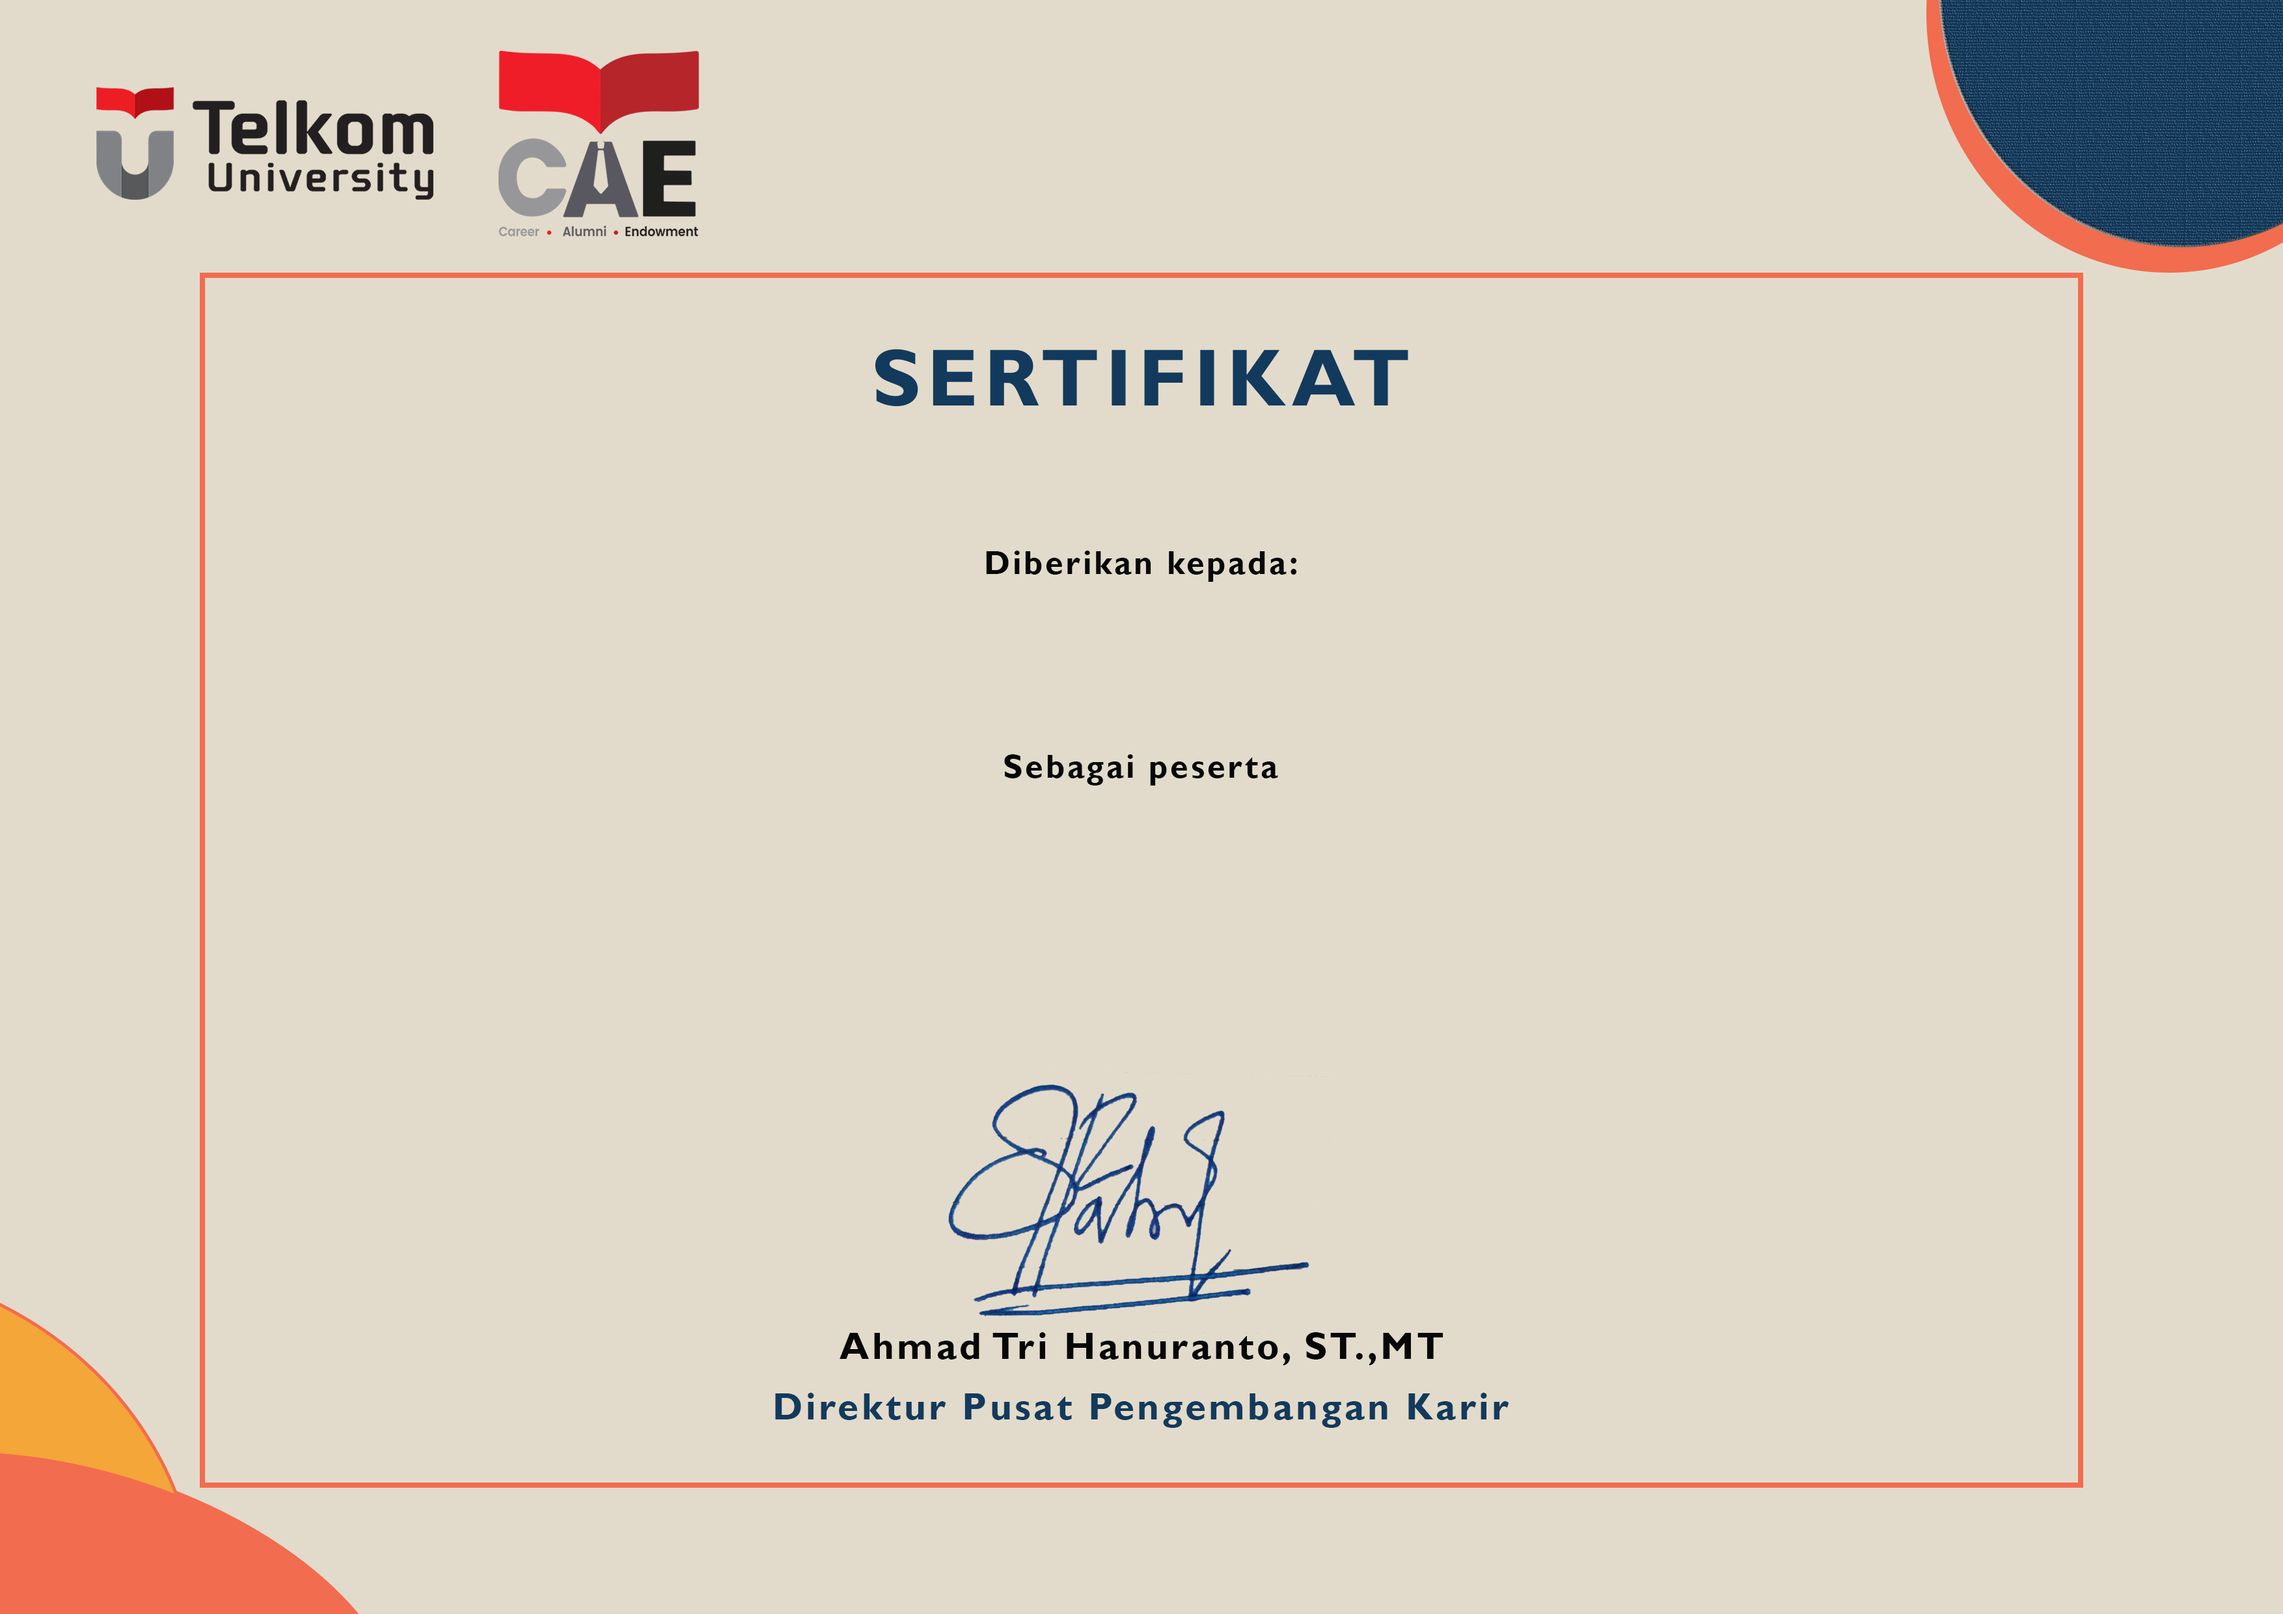
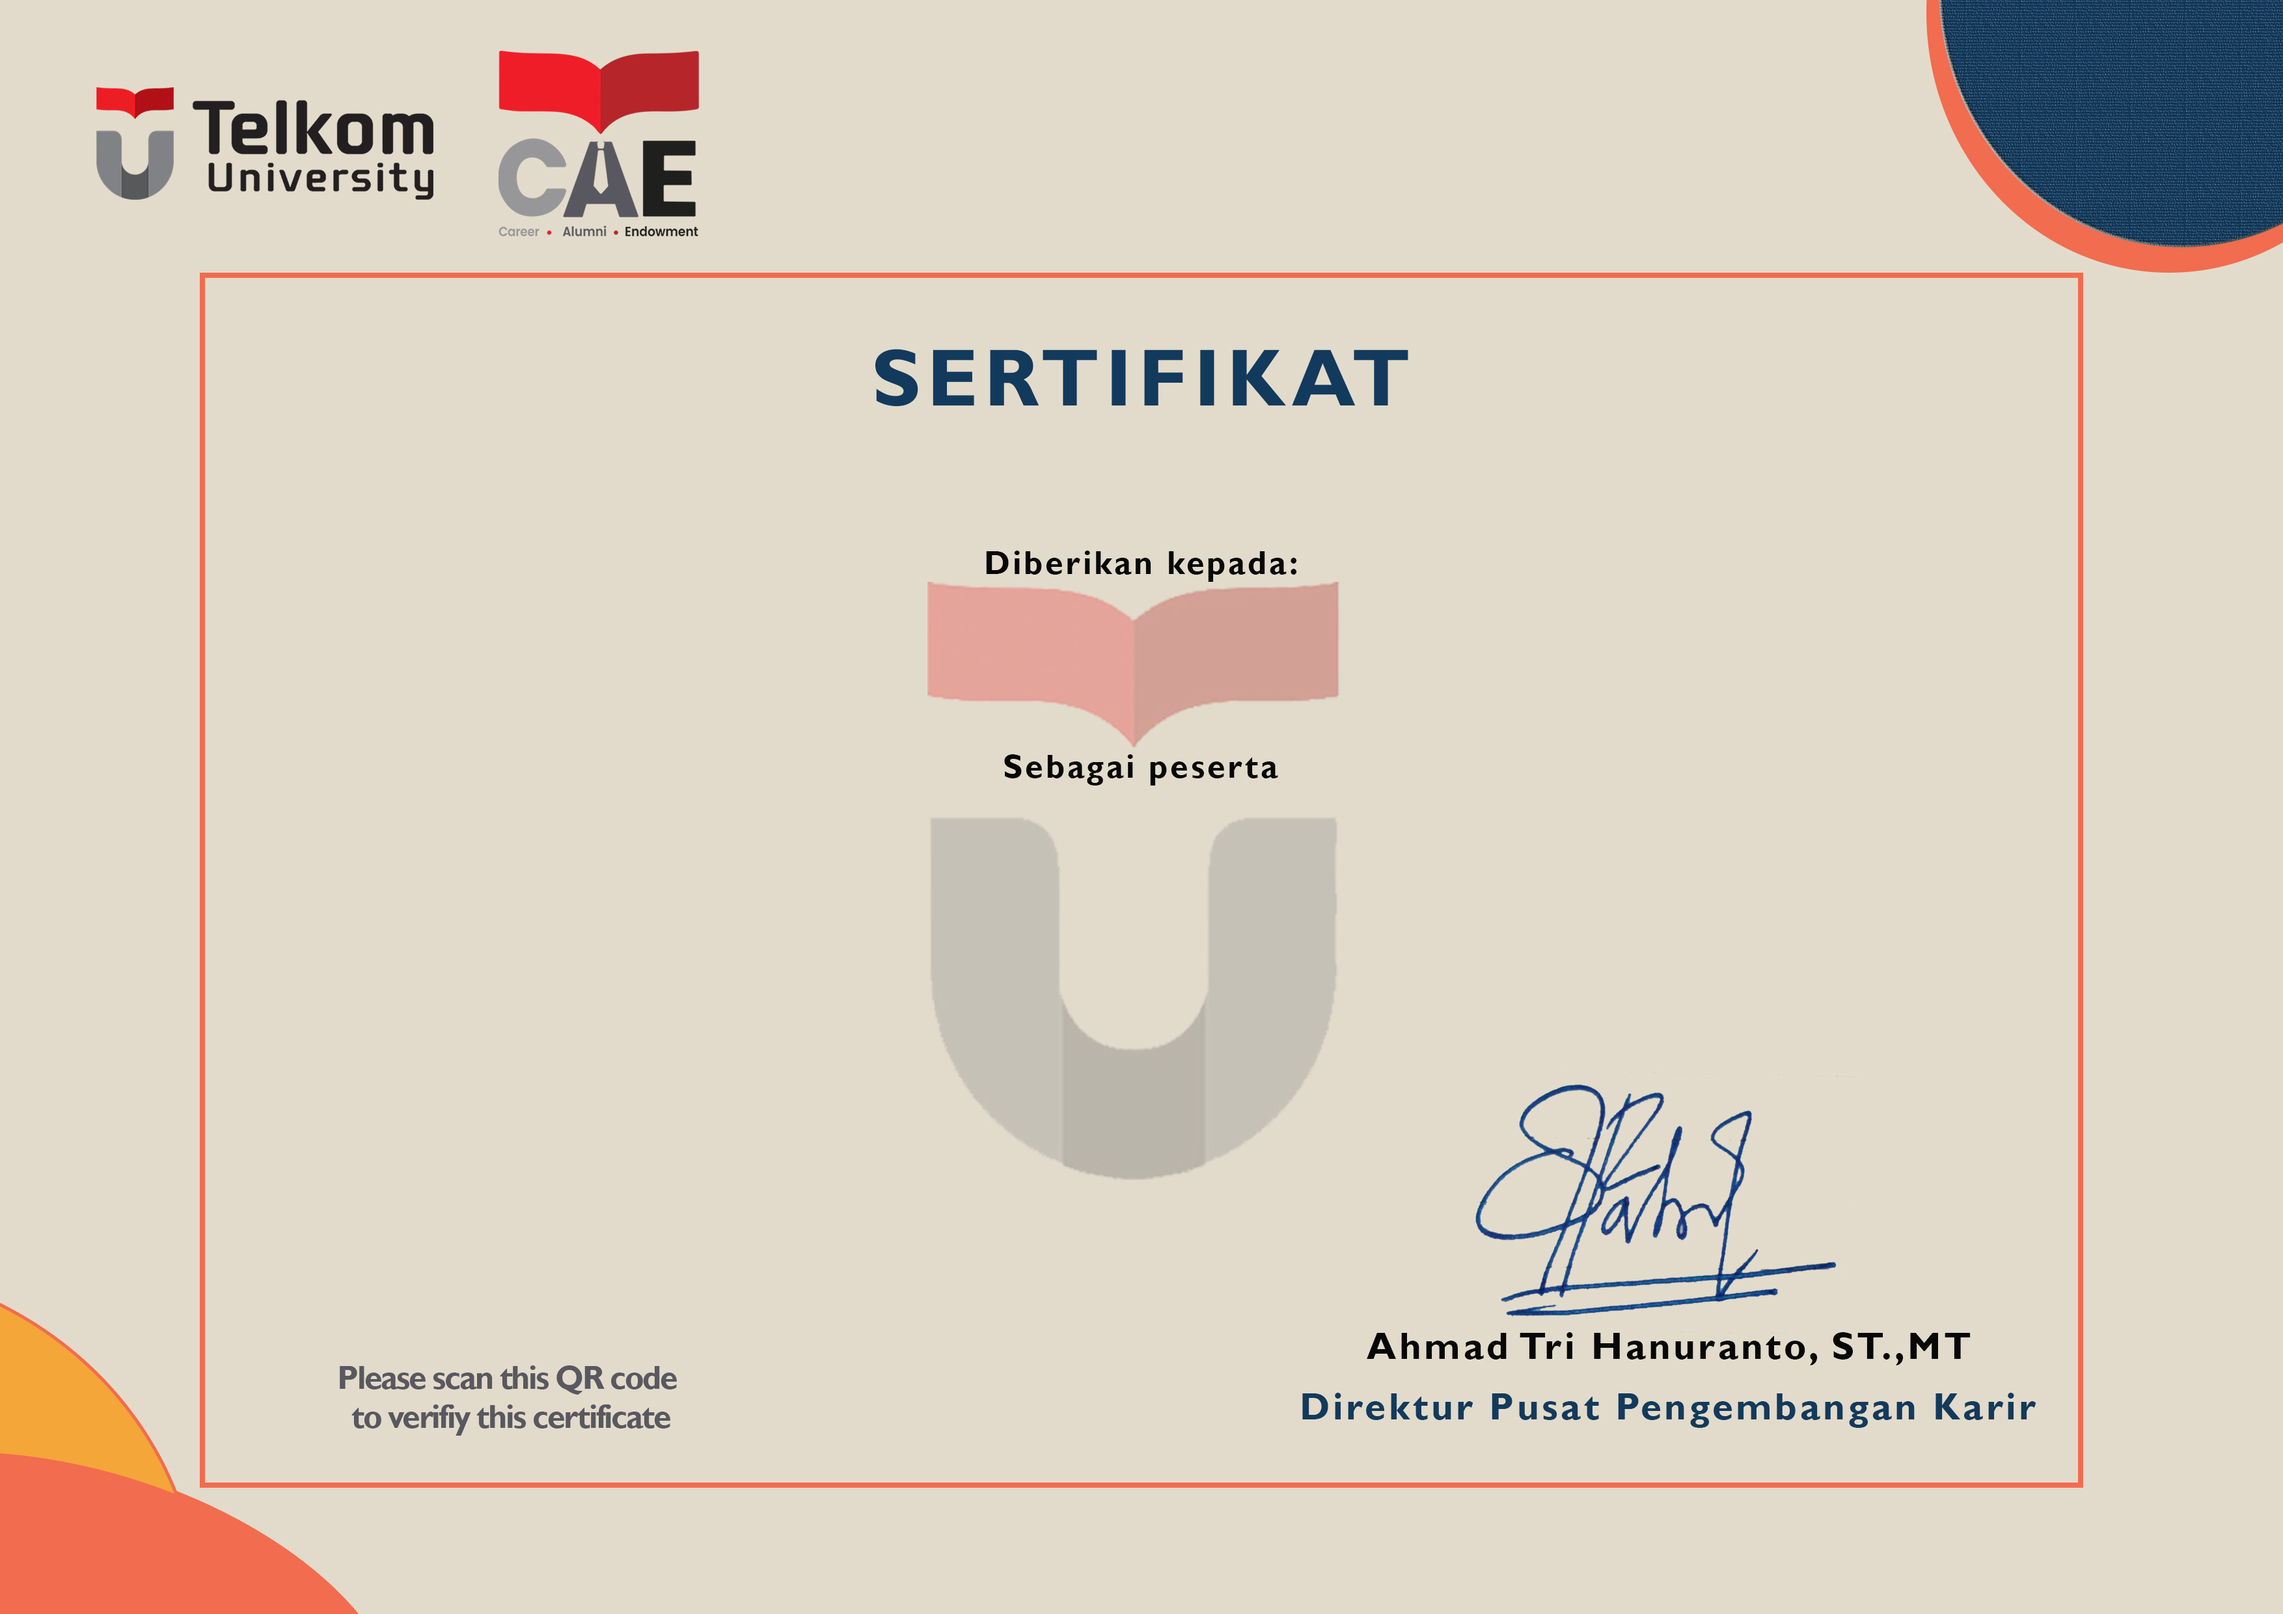
Add Seeder, Fixing Certificate PDF and QR Code, Changing gitignore storage

diff --git a/database/seeders/DatabaseSeeder.php b/database/seeders/DatabaseSeeder.php
@@ -8,6 +8,8 @@ use App\Models\Education;
 use App\Models\Seminar;
 use App\Models\Project;
 use App\Models\Organization;
+use App\Models\DesignCertificate;
+use App\Models\Certificate;
 
 class DatabaseSeeder extends Seeder
 {
@@ -18,6 +20,7 @@ class DatabaseSeeder extends Seeder
      */
     public function run()
     {
+        // CV Data
         // Biodata seed
         Biodata::create([
             'fullname' => 'Muhamad Farell Ambiar',
@@ -36,7 +39,7 @@ class DatabaseSeeder extends Seeder
             'major' => 'Computer Science',
             'degree' => 'Bachelor',
             'start_date' => '2018-08-01',
-            'end_date' => '2022-04-01',
+            'end_date' => '2019-04-01',
             'gpa' => '3.5'
         ]);
         Education::create([
@@ -67,8 +70,22 @@ class DatabaseSeeder extends Seeder
             'project_name' => 'Simulasi Penyebaran Virus (Random Walk 2 Dimensi dengan 4 Arah)',
             'role' => 'Back-end programmer',
             'description' => 'Aplikasi untuk membuat simulasi visual dalam rangka tracking penyebaran virus Covid-19',
+            'start_date' => '2018-10-11',
+            'end_date' => '2019-03-02'
+        ]);
+        Project::create([
+            'project_name' => 'Website UMKM Kuker Hut Bakery',
+            'role' => 'Project Leader',
+            'description' => 'Lorem ipsum dolor sit amet, consectetur adipiscing elit. Quisque porttitor, quam sed tristique finibus, turpis leo laoreet nulla, eu laoreet magna nisi non diam. Morbi commodo egestas dignissim. Nulla augue ante, mollis sit amet consectetur non, faucibus et odio. Nullam eu dapibus quam, vitae porttitor lectus.',
             'start_date' => '2020-10-11',
             'end_date' => '2021-03-02'
+        ]);
+        Project::create([
+            'project_name' => 'Pembangunan Aplikasi PeduliLindingi',
+            'role' => 'Fullstack Developer',
+            'description' => 'Lorem ipsum dolor sit amet, consectetur adipiscing elit. Quisque porttitor, quam sed tristique finibus, turpis leo laoreet nulla, eu laoreet magna nisi non diam. Morbi commodo egestas dignissim. Nulla augue ante, mollis sit amet consectetur non, faucibus et odio. Nullam eu dapibus quam, vitae porttitor lectus.',
+            'start_date' => '2021-05-11',
+            'end_date' => '2021-06-02'
         ]);
 
         // Organizations seed
@@ -78,5 +95,103 @@ class DatabaseSeeder extends Seeder
             'start_date' => '2021-02-11',
             'end_date' => '2021-04-11'
         ]);
+        Organization::create([
+            'organization_name' => 'Big Data Laboratory of Telkom University',
+            'role' => 'Study Group Member',
+            'start_date' => '2019-02-11',
+            'end_date' => '2020-04-11'
+        ]);
+        Organization::create([
+            'organization_name' => 'Forum Betawi Rempug',
+            'role' => 'Treasurer',
+            'start_date' => '2021-06-11',
+            'end_date' => '2021-10-11'
+        ]);
+        // End of CV Data
+
+        //Certificate Data
+        // design_certificate seed
+        DesignCertificate::create([
+            'no_template' => '1',
+            'template_name' => 'Template 01',
+            'filename' => 'Auto-Certificate-Template-01-for-web.jpg',
+            'filesize' => '1286654'
+        ]);
+        DesignCertificate::create([
+            'no_template' => '2',
+            'template_name' => 'Template 02',
+            'filename' => 'Auto-Certificate-Template-02-for-web.jpg',
+            'filesize' => '1186009'
+        ]);
+        DesignCertificate::create([
+            'no_template' => '3',
+            'template_name' => 'Template 03',
+            'filename' => 'Auto-Certificate-Template-03-for-web.jpg',
+            'filesize' => '1063568'
+        ]);
+
+        //Certificate seed
+        Certificate::create([
+            'nomor' => '00001/seminar/09/2021',
+            'nama' => 'Muhamad Farell Ambiar',
+            'nim' => '1301184262',
+            'tipe' => 'seminar',
+            'event' => 'Literasi Event Untuk Meningkatkan Public Speaking',
+            'pembicara' => 'Drs. Suherman M.Pd',
+            'tanggal_mulai' => '2021-09-01',
+            'tanggal_selesai' => '2021-09-02',
+            'design_certificate_id' => '1',
+            'status' => 'Hadir'
+        ]);
+        Certificate::create([
+            'nomor' => '00002/talkshow/09/2021',
+            'nama' => 'Muhamad Farell Ambiar',
+            'nim' => '1301184262',
+            'tipe' => 'talkshow',
+            'event' => 'Literasi Event Untuk Meningkatkan Public Speaking',
+            'pembicara' => 'Drs. Ahmad Drajat M.Si',
+            'tanggal_mulai' => '2021-09-03',
+            'tanggal_selesai' => '2021-09-04',
+            'design_certificate_id' => '2',
+            'status' => 'Hadir'
+        ]);
+        Certificate::create([
+            'nomor' => '00003/workshop/09/2021',
+            'nama' => 'Muhamad Farell Ambiar',
+            'nim' => '1301184262',
+            'tipe' => 'workshop',
+            'event' => 'Literasi Event Untuk Meningkatkan Public Speaking',
+            'pembicara' => 'Drs. Panji Danang M.Pd',
+            'tanggal_mulai' => '2021-09-07',
+            'tanggal_selesai' => '2021-09-07',
+            'design_certificate_id' => '3',
+            'status' => 'Hadir'
+        ]);
+        Certificate::create([
+            'nomor' => '00004/workshop/09/2021',
+            'nama' => 'Muhamad Farell Ambiar',
+            'nim' => '1301184262',
+            'tipe' => 'workshop',
+            'event' => 'Literasi Event Untuk Meningkatkan Public Speaking',
+            'pembicara' => 'Drs. Panji Danang M.Pd',
+            'tanggal_mulai' => '2021-09-07',
+            'tanggal_selesai' => '2021-09-07',
+            'design_certificate_id' => '3',
+            'status' => ''
+        ]);
+        Certificate::create([
+            'nomor' => '00005/workshop/09/2021',
+            'nama' => 'Muhamad Farell Ambiar',
+            'nim' => '1301184262',
+            'tipe' => 'workshop',
+            'event' => 'Literasi Event Untuk Meningkatkan Public Speaking',
+            'pembicara' => 'Drs. Panji Danang M.Pd',
+            'tanggal_mulai' => '2021-09-07',
+            'tanggal_selesai' => '2021-09-07',
+            'design_certificate_id' => '3',
+            'status' => 'Tidak Hadir'
+        ]);
+
+        // End of Certificate Data
     }
 }

diff --git a/resources/views/content/certificate_pdf_3.blade.php b/resources/views/content/certificate_pdf_3.blade.php
@@ -11,23 +11,22 @@
 
     #nomor {
         width: 100%; 
-        padding-top: 140px;
-        padding-bottom: 60px;
+        padding-top: 200px;
         font-family:times;
     }
 
     #nama{
         width: 100%; 
-        padding-top: 30px; 
+        padding-top: 70px; 
         font-size:30pt; 
         font-weight: bold;
         font-family:GillSansMT-Bold;
-        color: #343232;
+        color: #1a9a82;
     }
 
     #tipe_event{
         width: 100%; 
-        padding-top: 70px;
+        padding-top: 55px;
         font-family:GillSansMT-Bold;
         font-weight: bold;
     }
@@ -53,29 +52,24 @@
 
     #txt_tipe {
         font-size:23pt; 
-        color:#9e0b0f
+        color:#a19439
     }
 
     #txt_event_shrt {
         font-size:22pt; 
-        color: #343232
+        color: #1a9a82
     }
     #txt_event_long {
         font-size:18pt; 
-        color: #343232
+        color: #1a9a82
 
     }
-    #tempat_tanggal{
-        color: #a53235;
-    }
-
     #qrcode {
         width: 27mm; 
         height: 27mm; 
         margin-left:197px; 
-        margin-top: 39px;
+        margin-top: 33px;
     }
-
 </style>
 @foreach ($data as $d)
 <page id="full" backimg="{{ asset('storage/templates/'.$d->design_certificate->filename) }}">
@@ -116,10 +110,10 @@
             </td>
             <td id="tengah">
                 <span id="txt_tipe">{{strtoupper($d->tipe)}}</span><br><br>
-				@if (strlen($d->event) <= 55)
+                @if (strlen($d->event) <= 55)
 				    <span id="txt_event_shrt">{{ucwords($d->event)}}</span>
                 @else
-                <span id="txt_event_long">{{ucwords($d->event)}}</span>
+                    <span id="txt_event_long">{{ucwords($d->event)}}</span>
                 @endif
             </td>
             <td id="kanan">
@@ -131,7 +125,7 @@
             <td id="kiri">
             </td>
             <td id="tengah">
-                <span id="tempat_tanggal">Bandung, {{($tgl_indo)}}</span>
+                <span>Bandung, {{($tgl_indo)}}</span>
             </td>
             <td id="kanan">
             </td>

diff --git a/resources/views/content/create_certif_template.blade.php b/resources/views/content/create_certif_template.blade.php
@@ -25,7 +25,7 @@
             </div>
             <div class="form-group">
                 <label for="template_name">Nama Template</label>
-                <input type="text" class="form-control" id="template_name" name="template_name" placeholder="{{'Template '.$num}}" required >
+                <input type="text" class="form-control" id="template_name" name="template_name" placeholder="Ex: Template Webinar Literacy Event" required >
             </div>
            <div class="form-group">
                <label for="file" class="form-label">File Template</label>

diff --git a/resources/views/content/component_cv/cv_pdf_3.blade.php b/resources/views/content/component_cv/cv_pdf_3.blade.php
@@ -90,6 +90,7 @@
         margin: 3px 0px 5px 0px;
         font-size: 10pt;
         line-height: 1.5;
+        text-align: justify;
     }
 
     .italic {
@@ -162,7 +163,7 @@
                 </td>
                 <td id="kanan">
                     <div class="image">
-                        <img src="{{url('img/contoh_foto.png')}}"><br>
+                        <img src="{{url('img/contoh_foto_1.png')}}"><br>
                     </div>
                 </td>
             </tr>

diff --git a/resources/views/content/certificate_pdf_1.blade.php b/resources/views/content/certificate_pdf_1.blade.php
@@ -67,8 +67,8 @@
     #qrcode {
         width: 27mm; 
         height: 27mm; 
-        margin-left:230px; 
-        margin-top: 10px;
+        margin-left:200px; 
+        margin-top: 20px;
     }
 </style>
 @foreach ($data as $d)
